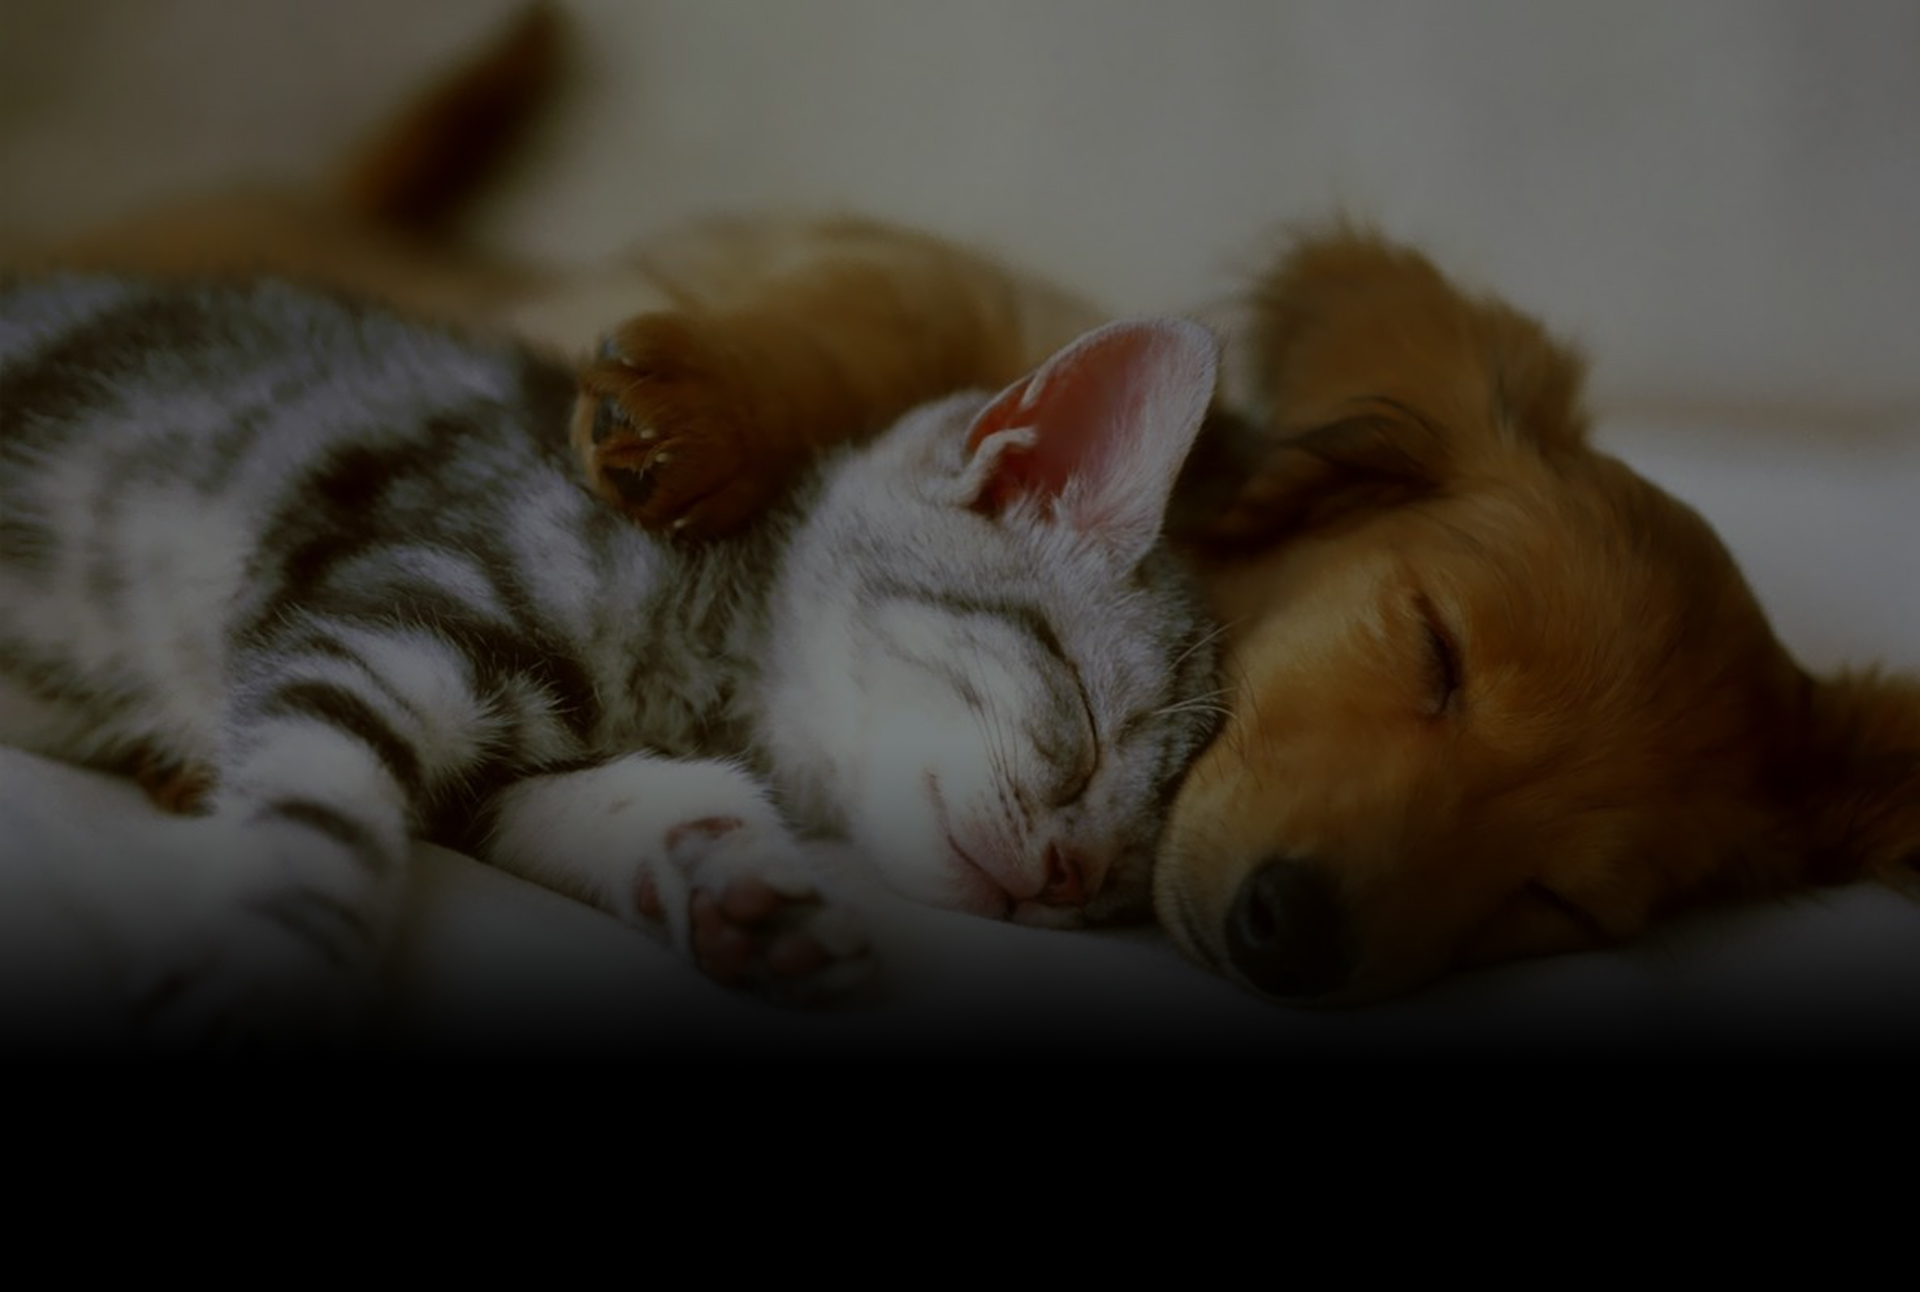
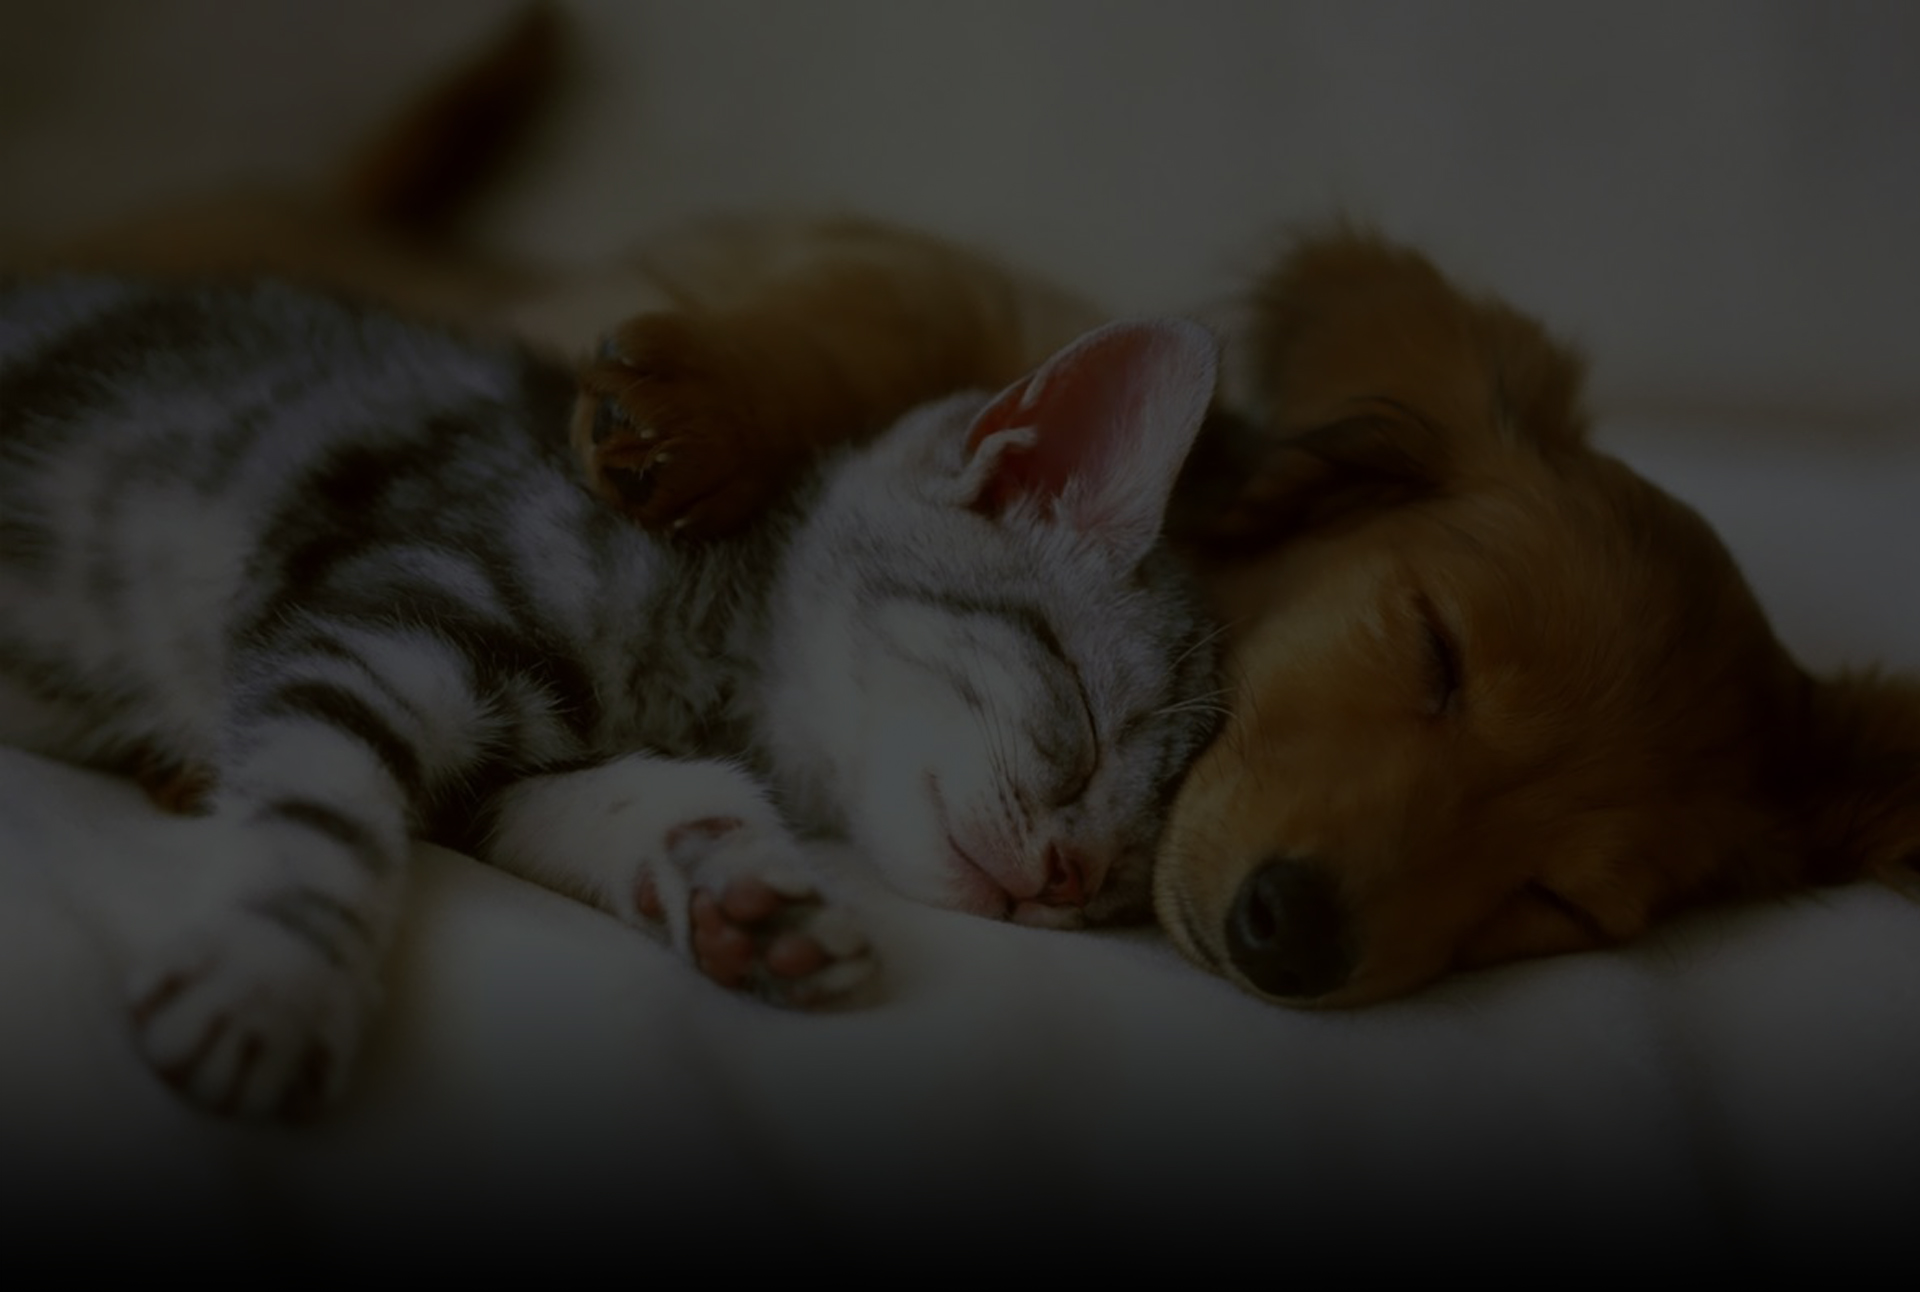
alteração de background

diff --git a/css/style.css b/css/style.css
@@ -32,7 +32,9 @@ footer, header, hgroup, menu, nav, section {
 body + object {display: none;}
 body {
     line-height: 1;
-    background:url(../images/bgnv.jpg) top center no-repeat black;
+    background:url(../images/bgnv.jpg) no-repeat;
+	background-position: center;
+	background-size: 1005% 105%;
     font-family: 'Open Sans', sans-serif;
     color: white;
     font-size: 14px;
